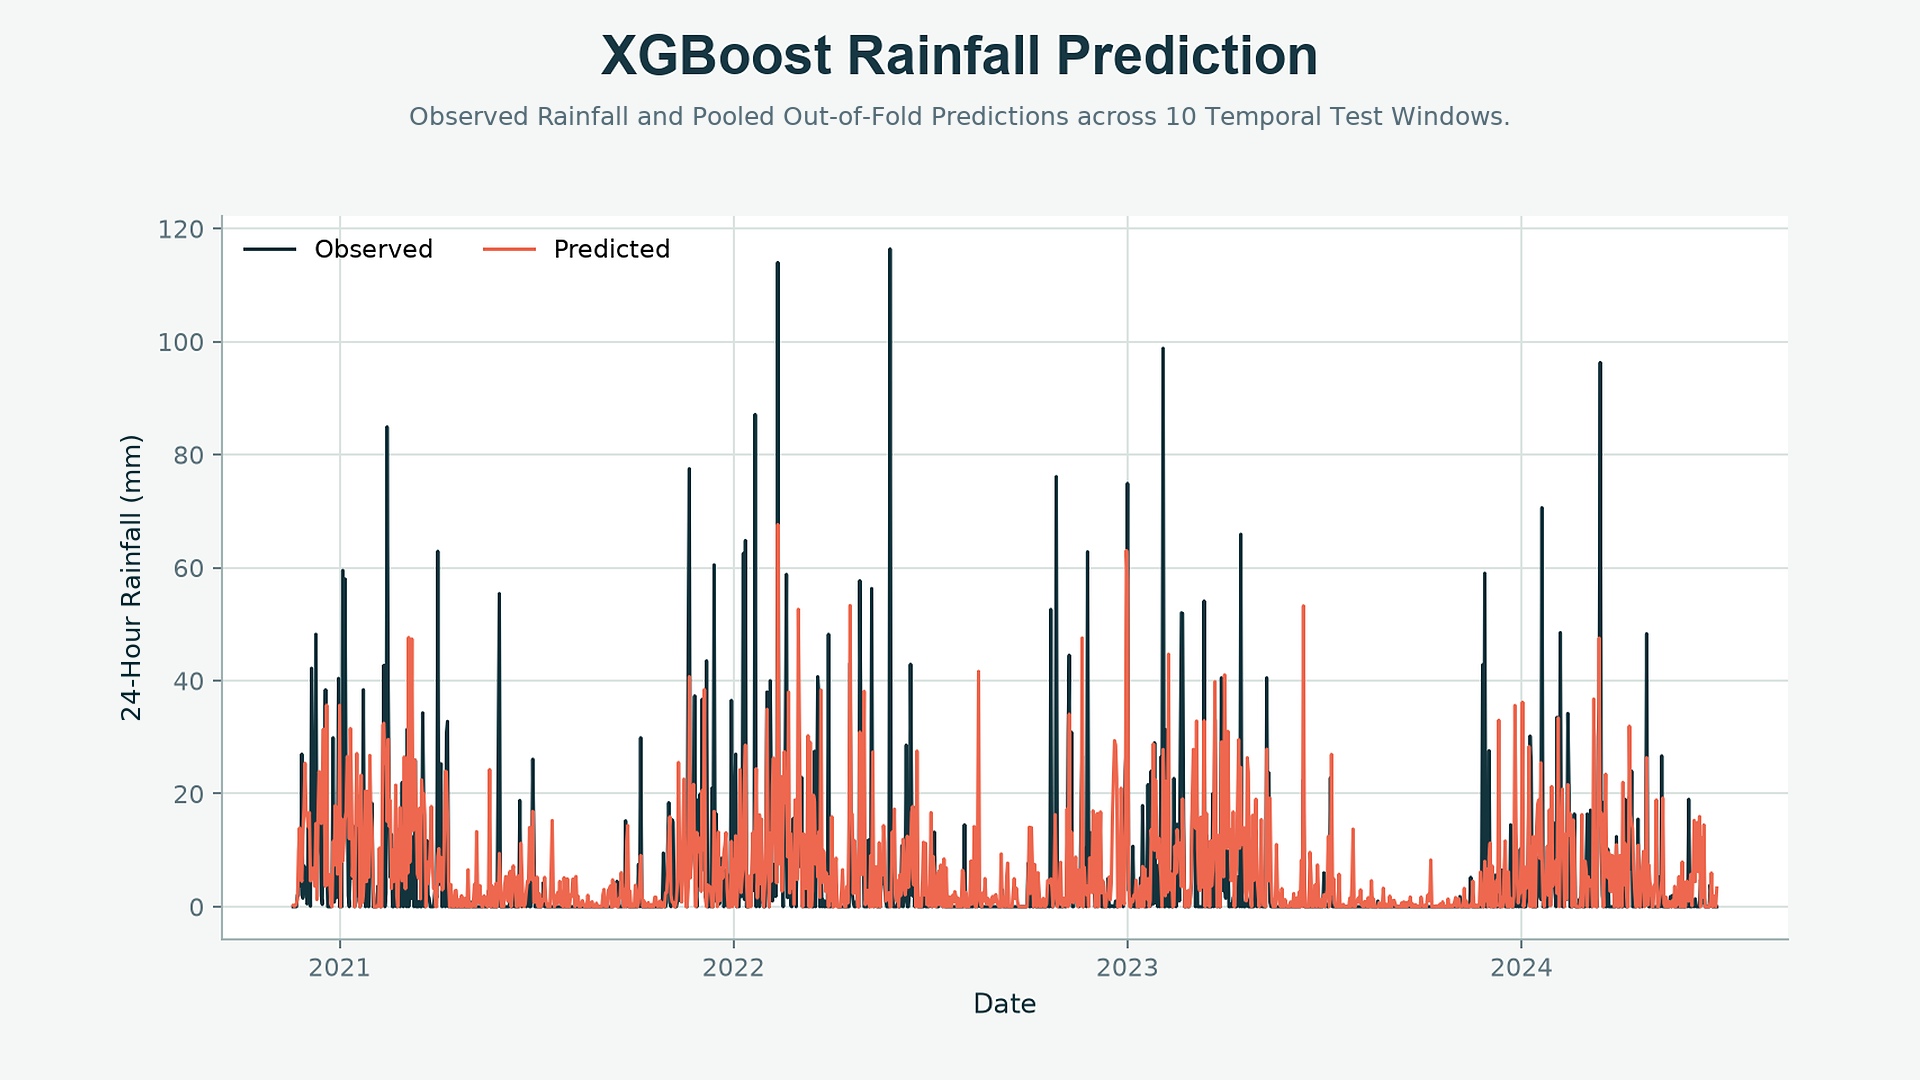
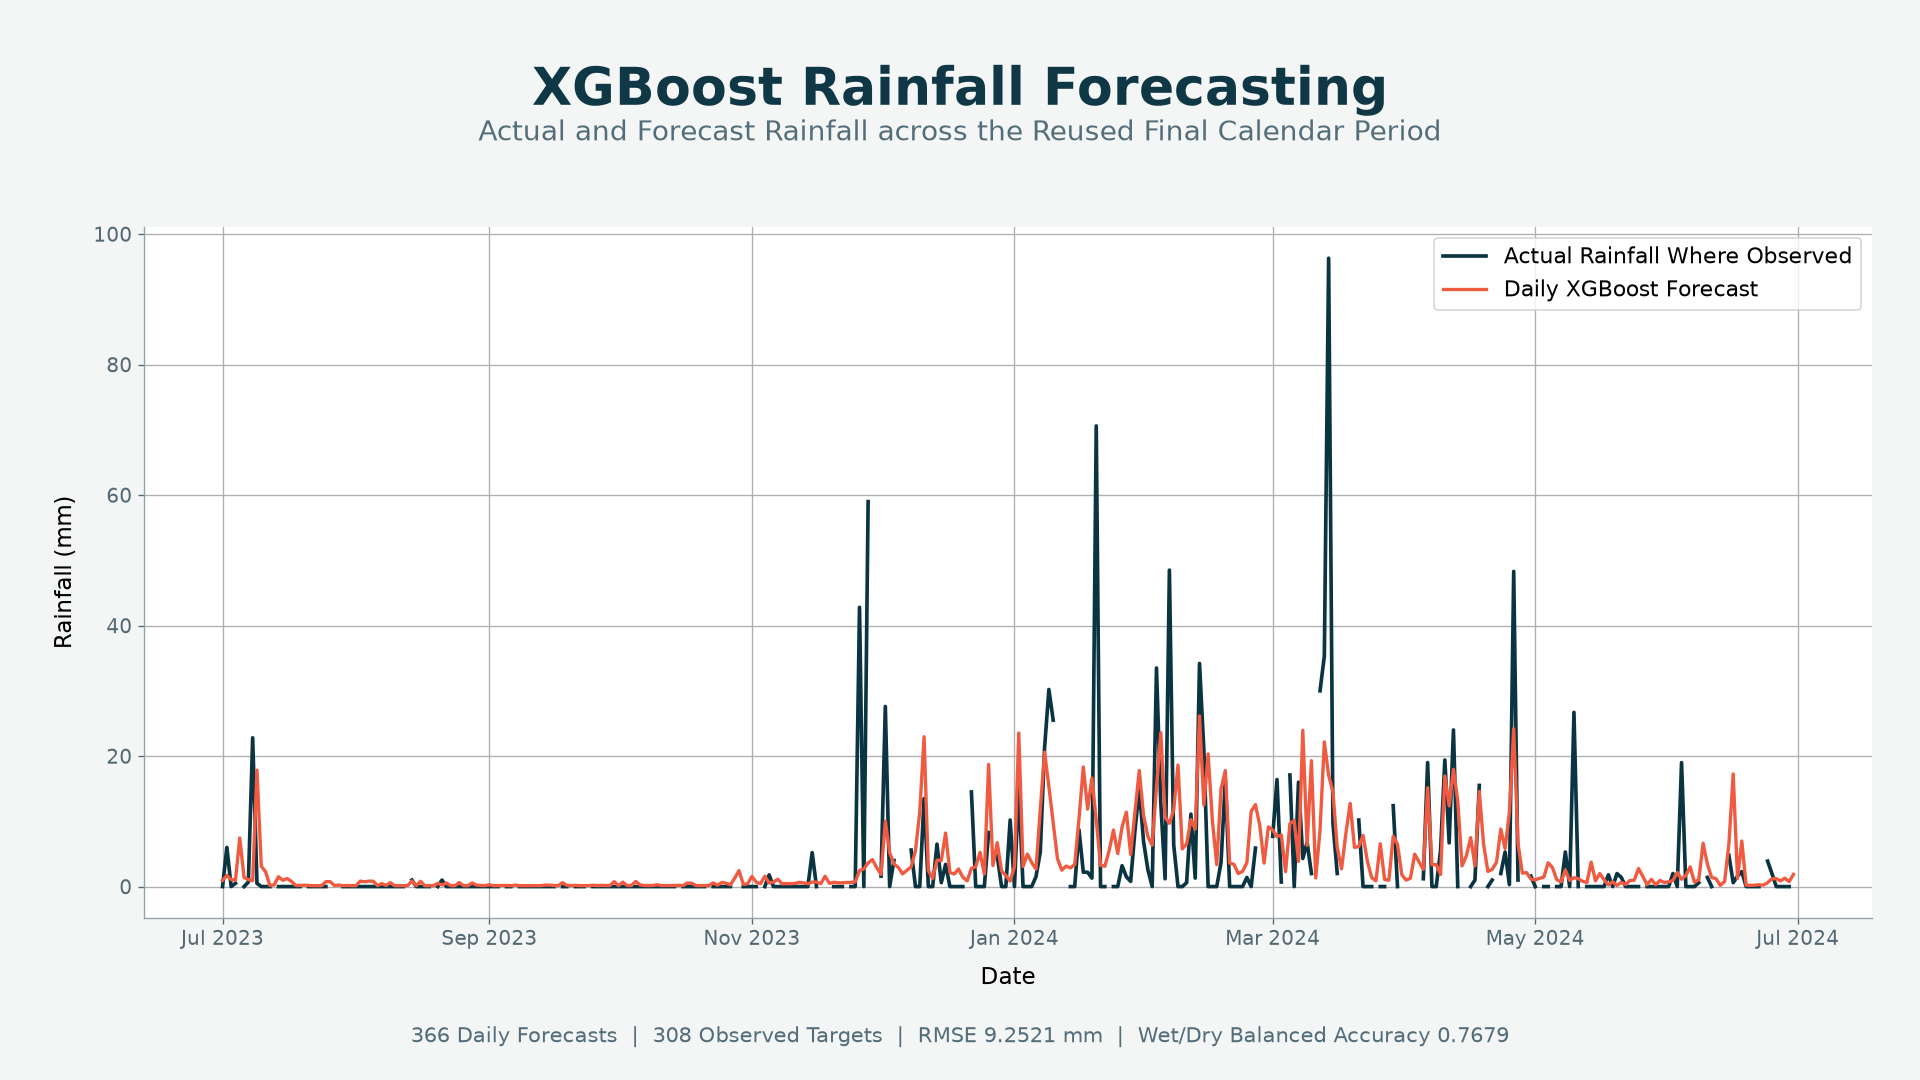
feat: publish XGBoost rainfall V2 portfolio evidence

diff --git a/index.html b/index.html
@@ -77,7 +77,7 @@
     <script>
       (() => {
         const releaseParameter = "release";
-        const embeddedRelease = "20260823-07";
+        const embeddedRelease = "20260827-01";
         const loadedRelease = new URLSearchParams(window.location.search).get(releaseParameter);
         const releaseMarkerUrl = new URL("site-version.json", window.location.href);
         releaseMarkerUrl.searchParams.set("check", Date.now().toString());
@@ -329,37 +329,37 @@
           <article class="project featured-project" data-project-context="academic">
             <div class="content project-grid">
               <div class="project-copy">
-                <div class="project-kicker"><span>04</span><p>Time-series forecasting | Python, XGBoost, scikit-learn</p></div>
+                <div class="project-kicker"><span>04</span><p>Data Science | Python, XGBoost, scikit-learn</p></div>
                 <h3>Rainfall Forecasting with XGBoost and Grid Search</h3>
                 <dl class="case-details">
-                  <div><dt>Problem</dt><dd>Daily rainfall is highly variable, and random train-test splits can overstate how well a model will perform on future weather. This project estimates next-day rainfall while keeping evaluation in chronological order.</dd></div>
-                  <div><dt>My Contribution</dt><dd>Built the Python forecasting workflow from data validation and lag construction through XGBoost search, scikit-learn temporal evaluation, and experiment reporting, then authored the resulting peer-reviewed publication as 1st author.</dd></div>
+                  <div><dt>Problem</dt><dd>Rainfall timing matters to salt-production planning in Sumenep, while daily observations are zero-heavy, highly skewed, and difficult to evaluate with random splits. The study forecasts next-day rainfall and examines both amount error and BMKG intensity behavior.</dd></div>
+                  <div><dt>My Contribution</dt><dd>Designed the V2 workflow from sentinel-code handling and development-only EDA through 23 prior-only features, 3 XGBoost Grid Searches, annual TimeSeriesSplit validation, and multi-regime evaluation. V1 remains the journal reference that supported the linked 1st-author publication.</dd></div>
                 </dl>
                 <details class="project-deep-dive">
                   <summary>Technical details</summary>
                   <dl class="case-details">
-                    <div><dt>Data &amp; Context</dt><dd>Daily BMKG observations from the Trunojoyo observation area in Sumenep Regency combine recent temperature, sunshine, humidity, wind, and rainfall history.</dd></div>
-                    <div><dt>Approach</dt><dd>Created 1-day lagged predictors and searched 243 XGBoost configurations, with Min-Max scaling fitted separately inside each training fold.</dd></div>
-                    <div><dt>Validation &amp; Controls</dt><dd>Used 10-fold TimeSeriesSplit and pooled out-of-fold predictions so every test window followed its training data and future observations did not leak into preprocessing.</dd></div>
+                    <div><dt>Data &amp; Context</dt><dd>Used 1,461 daily BMKG observation dates from the Trunojoyo area in Sumenep Regency. Codes 8888 and 9999 were treated as unknown values; all 366 final dates received forecasts, with 308 observed targets available for evaluation.</dd></div>
+                    <div><dt>Approach</dt><dd>Compared default and tuned 2-stage XGBoost, direct Tweedie XGBoost, and their development-weighted ensemble through 5,184 temporal CV fits. Development evidence selected a 0.50 wet threshold and a 40% 2-stage plus 60% Tweedie amount forecast.</dd></div>
+                    <div><dt>Validation &amp; Results</dt><dd>Used 2 expanding full-year TimeSeriesSplit checks before a reused final calendar year. The selected ensemble recorded RMSE 9.2521 mm, 5.8982% total bias, 0.7679 wet/dry balanced accuracy, 75.0% BMKG category accuracy, and 0.4429 BMKG Macro-F1.</dd></div>
                   </dl>
                 </details>
               </div>
               <div class="project-result-column">
                 <figure class="project-visual">
-                  <a class="project-image-link" href="assets/projects/xgboost-rainfall.png?v=20260823i" target="_blank" rel="noopener noreferrer" aria-label="Open the XGBoost rainfall project visual at full size">
-                    <img src="assets/projects/xgboost-rainfall.png?v=20260823i" alt="Observed rainfall and pooled out-of-fold XGBoost predictions across 10 temporal test windows" width="1920" height="1080" decoding="async">
+                  <a class="project-image-link" href="assets/projects/xgboost-rainfall.png?v=20260827a" target="_blank" rel="noopener noreferrer" aria-label="Open the XGBoost rainfall forecasting visual at full size">
+                    <img src="assets/projects/xgboost-rainfall.png?v=20260827a" alt="Actual rainfall where observed and the selected daily XGBoost ensemble forecast across the reused 366-day final calendar period" width="1920" height="1080" decoding="async">
                   </a>
-                  <figcaption>Observed rainfall and pooled out-of-fold predictions from the 10-fold temporal evaluation.</figcaption>
+                  <figcaption>Actual and selected ensemble forecasts across all 366 final dates; error metrics use the 308 dates with observed rainfall.</figcaption>
                 </figure>
-                <div class="metric-row" aria-label="XGBoost rainfall project results">
-                  <div><strong>0.9152</strong><span>MAAPE</span></div>
-                  <div><strong>11.9566</strong><span>RMSE (mm)</span></div>
-                  <div><strong>10</strong><span>Temporal Folds</span></div>
+                <div class="metric-row" aria-label="XGBoost rainfall V2 reused-final results">
+                  <div><strong>9.2521 mm</strong><span>Reused-Final RMSE</span></div>
+                  <div><strong>0.7679</strong><span>Wet/Dry Balanced Accuracy</span></div>
+                  <div><strong>75.0%</strong><span>BMKG Category Match</span></div>
                 </div>
-                <p class="project-output"><strong>Project Output</strong><span>The workflow delivers a selected XGBoost model, fold-level results, pooled out-of-fold rainfall predictions, and a traceable experiment report.</span></p>
-                <p class="project-interpretation"><strong>Evidence &amp; Scope</strong><span>The work became a peer-reviewed publication with Thufail as 1st author. Original BMKG observations remain restricted, so the public repository provides synthetic same-schema data for reviewing and reproducing the workflow.</span></p>
+                <p class="project-output"><strong>Project Output</strong><span>The selected V2 experiment produces 366 next-day forecasts with wet/dry alerts and BMKG intensity labels, supported by development-selection tables, calibration, error-regime diagnostics, feature importance, and a reproducible local evidence bundle.</span></p>
+                <p class="project-interpretation"><strong>Evidence &amp; Scope</strong><span>Controlled evidence comes from 2 annual development checks and 1 reused final year. Correct-category counts were 4/15 for moderate and 0/3 for heavy rainfall, which remains the main model limitation. Original observations remain private; the linked publication documents V1, while the displayed metrics report V2.</span></p>
                 <div class="project-links">
-                  <a class="text-link" href="https://github.com/mthufailsamas/xgboost-rainfall-forecasting" target="_blank" rel="noopener noreferrer">View repository <span aria-hidden="true">&#8599;</span></a>
+                  <a class="text-link" href="https://github.com/mthufailsamas/xgboost-rainfall-prediction" target="_blank" rel="noopener noreferrer">View repository <span aria-hidden="true">&#8599;</span></a>
                   <a class="text-link" href="https://doi.org/10.26760/mindjournal.v11i1.30-43" target="_blank" rel="noopener noreferrer">Read publication <span aria-hidden="true">&#8599;</span></a>
                 </div>
               </div>

diff --git a/PROJECT.md b/PROJECT.md
@@ -1,6 +1,6 @@
 # Portfolio Website Source of Truth
 
-Last updated: 2026-08-23
+Last updated: 2026-08-27
 
 ## Purpose and authority
 
@@ -98,6 +98,7 @@ The following rules are mandatory for every future user-visible website revision
 4. Do not update `site-version.json` for an internal documentation-only commit that cannot change the rendered website.
 5. Do not call a revision live until the Pages deployment succeeds and the public site returns the new release marker, the versioned HTML, and every changed asset.
 6. If the freshness check fails, keep the currently loaded page usable. The guard must never replace the portfolio with a blank or blocking error state.
+7. After a user-authorized website revision passes the mandatory evidence, static, desktop, and mobile checks, commit and push it to `main` in the same task and verify the resulting GitHub Pages deployment. Do not introduce a separate pre-publication approval checkpoint unless the user explicitly requests a draft-only or local-only revision.
 
 This safeguard removes the normal post-deployment cache wait after it has reached a visitor's browser. It cannot make an unfinished GitHub Pages deployment available early, and the first installation of the guard still requires the current versioned page to be loaded once.
 
@@ -299,16 +300,20 @@ Copy this block for each audited project. Do not remove required fields.
 ### xgboost-rainfall-forecasting
 
 - **Workspace folder:** `C:/Users/Thufail/Documents/Portfolio/Academic Projects/XGBoost Rainfall Forecasting/`
-- **Source-of-truth files inspected:** `README.md`, the current Git worktree, and its configured public repository remote in the workspace above.
-- **Last audited:** 2026-08-16
+- **Source-of-truth files inspected:** `AGENTS.md`, `PROJECT.md`, `README.md`, `XGBoost_Rainfall_Forecasting_V2.ipynb` with all 14 code cells completed and no error output, `outputs_v2/xgboost_rainfall_v2_20260827-141510/development_decision.json`, `final_comparison.csv`, `final_predictions.csv`, `final_intensity_confusion.csv`, `final_intensity_class_metrics.csv`, `run_metadata.json`, the current Git worktree, and the configured public repository remote.
+- **Last audited:** 2026-08-27
 - **Display title:** Rainfall Forecasting with XGBoost and Grid Search
-- **Context:** Academic research project that also supported a peer-reviewed publication.
+- **Context:** Academic next-day rainfall forecasting study using authorized private BMKG observations from the Trunojoyo area in Sumenep Regency. V1 is the journal-bound reference that supported the linked publication; V2 is the active flagship experiment and source of the current portfolio metrics.
 - **Primary role family:** Data Science
-- **Supporting role families:** Pending a dedicated evidence audit.
-- **Verified metrics:** Unverified in this context-only audit; the current live-card metrics must be traced to the current notebook or reproducible outputs before any revision.
+- **Supporting role families:** None.
+- **Verified metrics:** The 2026-08-27 canonical V2 Run All completed all 14 code cells without notebook errors and produced 47 local evidence artifacts after 5,184 temporal CV fits. Development OOF evidence selected a 40% 2-stage and 60% direct Tweedie ensemble with a 0.50 wet threshold. Across 308 observed targets in the reused 366-day final calendar period, the ensemble recorded RMSE 9.2521 mm, MAE 4.1061 mm, total bias 5.8982%, R-squared 0.2370, wet-day balanced accuracy 0.7679, wet-day F1 0.6897, BMKG intensity accuracy 75.0%, and BMKG Macro-F1 0.4429. Correct-category counts were 175/206 dry, 52/84 light, 4/15 moderate, and 0/3 heavy; the final period contained no observed very-heavy target.
 - **Public repository:** https://github.com/mthufailsamas/xgboost-rainfall-prediction
-- **Limitations:** The original observations are private and are not redistributed. The public workflow defaults to synthetic same-schema data, and the current notebook has uncommitted changes that must be reconciled before a claims audit.
-- **Portfolio status:** Audit in progress
+- **Visual asset source:** Project-native selected-ensemble actual-versus-forecast evidence rendered locally from `final_predictions.csv` as a `1920x1080` PNG. The visual contains no third-party image or runtime request.
+- **Visual factual inventory:** Centered title `XGBoost Rainfall Forecasting`; subtitle `Actual and Forecast Rainfall across the Reused Final Calendar Period`; legend labels `Actual Rainfall` and `Daily XGBoost Forecast`; footer values `366 Daily Forecasts`, `308 Observed Targets`, `RMSE 9.2521 mm`, and `Wet/Dry Balanced Accuracy 0.7679`. The time-series lines and every displayed value trace to `final_predictions.csv` and `final_comparison.csv` from the canonical V2 output directory.
+- **Limitations:** The original observations are private and are not redistributed. The 4-year source represents 1 observation context, 58 of 366 final targets are unknown, and only 2 full-year development checks are available. The final year had informed prior analysis and is reused temporal evidence. Moderate and heavy rainfall remain weak: 4/15 moderate and 0/3 heavy dates received the correct BMKG category. V2 does not establish regional transfer, warning capability, deployment, or measured salt-production impact.
+- **Draft Project Output wording:** The selected V2 experiment produces 366 next-day forecasts with wet/dry alerts and BMKG intensity labels, supported by development-selection tables, calibration, error-regime diagnostics, feature importance, and a reproducible local evidence bundle.
+- **Draft Evidence & Scope wording:** Controlled evidence comes from 2 annual development checks and 1 reused final year. Correct-category counts were 4/15 for moderate and 0/3 for heavy rainfall, which remains the main model limitation. Original observations remain private; the linked publication documents V1, while the displayed metrics report V2.
+- **Portfolio status:** Approved for immediate publication. The evidence audit, card revision, and local verification are complete; the user authorized direct commit, push, and live verification on 2026-08-27.
 
 ### xgboost-thyroid-recurrence-classification
 
@@ -530,12 +535,12 @@ those actions after reviewing the findings.
 
 ## 7. Project-to-portfolio handoff
 
-A project task does not publish or revise its own portfolio card. When a project is ready for portfolio review:
+A project task does not publish or revise its own portfolio card. When a project is ready for portfolio delivery:
 
 1. identify the exact workspace folder and confirm that its project-level source of truth marks the intended handoff stage;
 2. ask the Portfolio Website task to audit or refresh the canonical Project Registry record in this file;
-3. treat the registry as `Draft` after the evidence audit while card wording, placement, or role mapping still requires user review;
-4. change the registry to `Approved` only after the user accepts the proposed public card and claims; and
-5. change the registry to `Published` only after the live website matches the approved record.
+3. use `Draft` only while evidence or wording remains unresolved, or when the user explicitly requests a draft-only or local-only revision;
+4. after an authorized revision passes the required evidence and website checks, change the registry to `Approved`, commit it, and push it to `main` in the same task without another publication-confirmation step; and
+5. change the registry to `Published` only after the GitHub Pages deployment succeeds and the live website matches the approved record.
 
 A message from another task is a routing signal, not project evidence. The Portfolio Website task must still inspect the project workspace and current reproducible sources before changing a registry record or public card.

diff --git a/README.md b/README.md
@@ -18,7 +18,8 @@ The featured case studies cover:
   local FastAPI delivery, Docker packaging, and contract tests;
 - AI Service Request Automation with FastAPI, n8n, PostgreSQL/pgvector, local
   Ollama models, human review, downstream delivery, and scheduled recovery;
-- Rainfall Forecasting with Python, XGBoost, scikit-learn, and Grid Search;
+- next-day Rainfall Forecasting with 2-stage and direct Tweedie XGBoost,
+  Grid Search, and annual TimeSeriesSplit evaluation;
 - Thyroid Cancer Recurrence Classification with Python, XGBoost,
   scikit-learn, Information Gain, and Grid Search;
 - Rainfall Forecasting with TensorFlow/Keras BiLSTM and Grid Search; and
